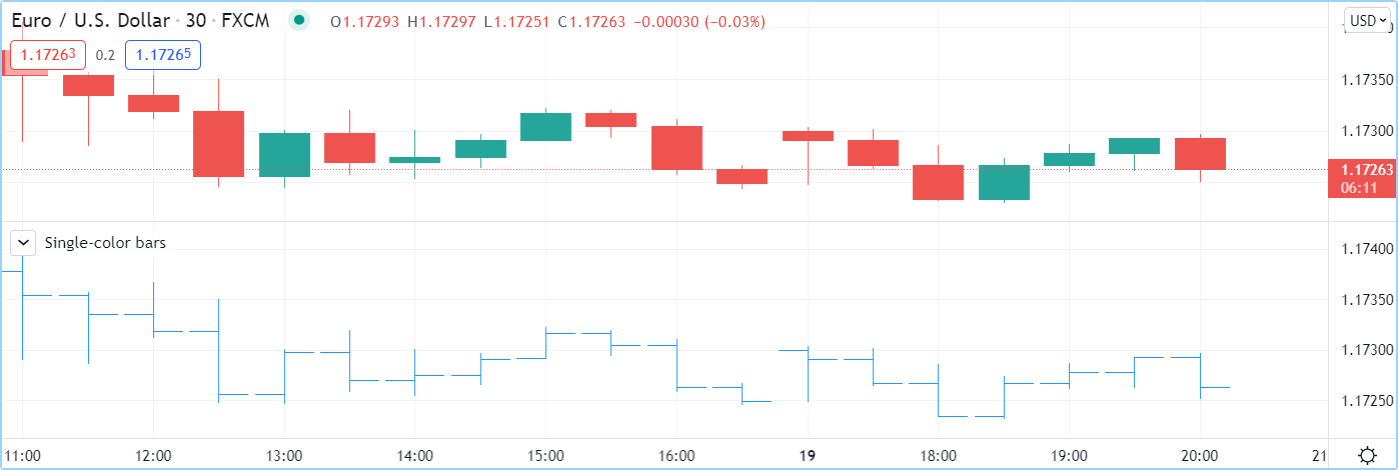
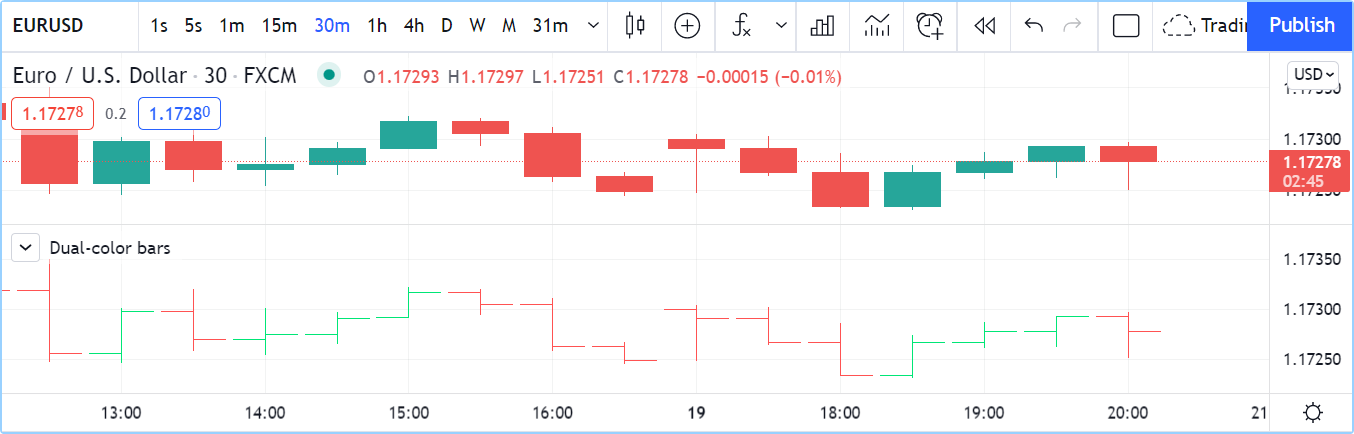
a

diff --git a/source/concepts/Bar_plotting.rst b/source/concepts/Bar_plotting.rst
@@ -93,8 +93,8 @@ higher timeframe. You can, for example, plot daily bars on an intraday chart::
 
 Note that:
 
-- We show the script's plot after having used "Visual order/Bring to Front" from the script's "More" menu.
-  This causes our scripts candles to appear on top of the chart's candles.
+- We show the script's plot after having used "Visual Order/Bring to Front" from the script's "More" menu.
+  This causes our script's candles to appear on top of the chart's candles.
 - The script will only display candles when two conditions are met:
 
     - The chart is using an intraday timeframe (see the check on ``timeframe.isintraday`` in the
@@ -122,72 +122,14 @@ The signature of `plotbar() <https://www.tradingview.com/pine-script-reference/v
 
     plotbar(open, high, low, close, title, color, editable, show_last, display) → void
 
-This plots simple bars using the habitual OHLC values in a separate pane::
+Note that `plotbar() <https://www.tradingview.com/pine-script-reference/v5/#fun_plotbar>`__
+has no paremeter for ``bordercolor`` or ``wickcolor``, as there are none on conventional bars.
+
+This plots conventional bars usgin the same coloring logic as in the second example of the previous section::
 
     //@version=5
-    indicator("Single-color bars")
-    plotbar(open, high, low, close, "OHLC bars")
-
-.. image:: images/BarPlotting-Plotbar-1.png
-
-To color them green or red, we can use the following code::
-
-    //@version=5
-    indicator("Example 2")
+    indicator("Dual-color bars")
     paletteColor = close >= open ? color.lime : color.red
     plotbar(open, high, low, close, color = paletteColor)
 
-.. image:: images/BarPlotting-Plotbar-3.png
-
-Note that:
-
-- The ``color`` parameter accepts "series color" arguments, so constant values such as ``color.red``, ``color.lime``, ``"#FF9090"``, 
-  as well as expressions that calculate colors at runtime, as is done with the ``paletteColor`` variable here, will all work.
-
-The ``plotcandle`` annotation function is similar to ``plotbar``, but it plots candles
-instead of bars and has an optional argument: ``wickcolor``.
-
-Both ``plotbar`` and ``plotcandle`` need four series as the arguments that will be
-used for new bar/candle OHLC prices. If one of
-the arguments for a bar has a ``na`` value, then the bar is not
-plotted. Example::
-
-    //@version=5
-    indicator("Example 3")
-    c = close > open ? na : close
-    plotcandle(open, high, low, c)
-
-.. image:: images/Custom_ohlc_bars_and_candles_3.png
-
-You can build bars or candles using values other than the actual OHLC values.
-For example you could calculate and plot *smoothed* candles using the following code::
-
-    //@version=5
-    indicator("Example 4")
-    lenInput = input.int(9)
-    smooth(source, length) =>
-        ta.sma(source, length)
-    o = smooth(open, lenInput)
-    h = smooth(high, lenInput)
-    l = smooth(low, lenInput)
-    c = smooth(close, lenInput)
-    plotcandle(o, h, l, c)
-
-.. image:: images/Custom_ohlc_bars_and_candles_4.png
-
-You may find it useful to plot OHLC values taken from a
-higher timeframe. You can, for example, plot daily bars on a *60 minutes* chart::
-
-    // NOTE: add this script on intraday chart
-    //@version=5
-    indicator("Example 5")
-    higherTFInput = input.timeframe("D")
-    isNewBar(res) =>
-        nz(ta.change(time(res)) > 0, true)
-    [o, h, l, c] = request.security(syminfo.tickerid, higherTFInput, [open, high, low, close])
-    plotbar(isNewBar(higherTFInput) ? o : na, h, l, c, color=c >= o ? color.lime : color.red)
-
-.. image:: images/Custom_ohlc_bars_and_candles_5.png
-
-The ``plotbar`` and ``plotcandle`` annotation functions also have a ``title`` argument, so users can distinguish them in
-the *Style* tab of the *Settings* dialog box.
+.. image:: images/BarPlotting-Plotbar-1.png
